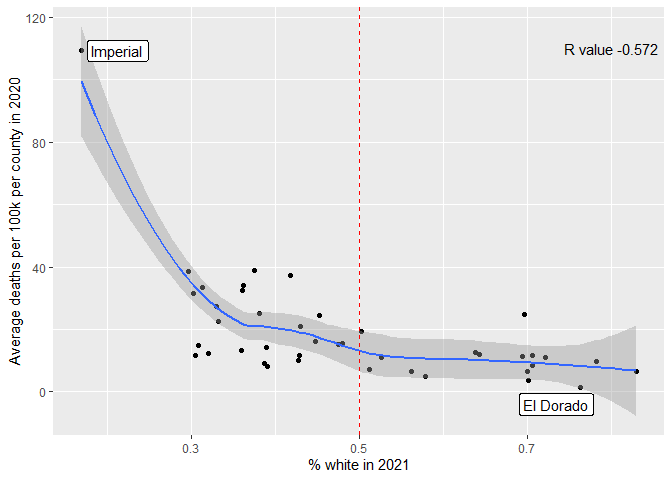
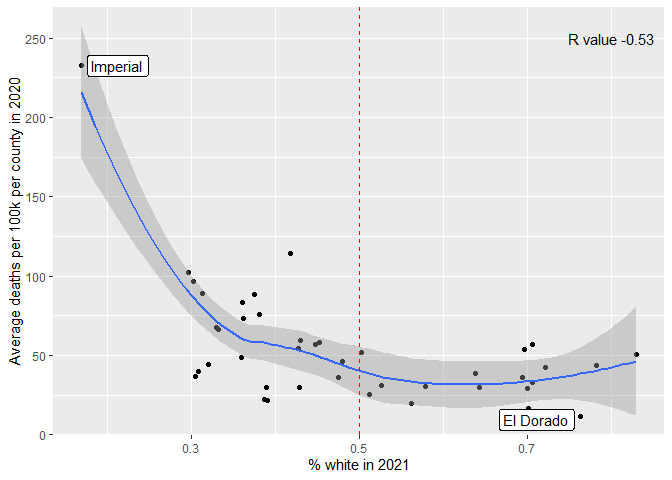
fix c6

diff --git a/challenges/c06-covid19-assignment.md b/challenges/c06-covid19-assignment.md
@@ -333,12 +333,9 @@ the NYT data `df_covid` already contains the `fips`.
 ### **q3** Process the `id` column of `df_pop` to create a `fips` column.
 
 ``` r
-substrRight <- function(x, n){
-  substr(x, nchar(x)-n+1, nchar(x))
-}
 ## TASK: Create a `fips` column by extracting the county code
 df_q3 <- df_pop %>%
-  mutate(fips = substrRight(Geography, 5))
+  mutate(fips = str_sub(Geography, 10))
 
 df_q3
 ```
@@ -575,17 +572,17 @@ df_normalized %>%
 ### **q7** Find the top 10 counties in terms of `cases_per100k`, and the top 10 in terms of `deaths_per100k`. Report the population of each county along with the per-100,000 counts. Compare the counts against the mean values you found in q6. Note any observations.
 
 ``` r
-df_normalized_with_avg <- df_normalized %>%
+df_normalized_with_max <- df_normalized %>%
   group_by(fips) %>%
-  summarize(cases_per100k_avg = mean(cases_per100k), deaths_per100k_avg = mean(deaths_per100k))
+  summarize(cases_per100k_max = max(cases_per100k), deaths_per100k_max = max(deaths_per100k))
 
 ## TASK: Find the top 10 cases_per100k counties; report populations as well
-df_normalized_with_avg %>%
-  arrange(desc(cases_per100k_avg)) %>%
+df_normalized_with_max %>%
+  arrange(desc(cases_per100k_max)) %>%
   head(10) %>%
   inner_join(df_normalized, by = "fips") %>%
   distinct(fips, .keep_all = TRUE) %>%
-  select(c("fips", "county", "state", "cases_per100k_avg", "population"))
+  select(c("fips", "county", "state", "cases_per100k_max","deaths_per100k_max", "population"))
 ```
 
     ## Warning in inner_join(., df_normalized, by = "fips"): Each row in `x` is expected to match at most 1 row in `y`.
@@ -593,28 +590,29 @@ df_normalized_with_avg %>%
     ## ℹ If multiple matches are expected, set `multiple = "all"` to silence this
     ##   warning.
 
-    ## # A tibble: 10 × 5
-    ##    fips  county        state        cases_per100k_avg population
-    ##    <chr> <chr>         <chr>                    <dbl>      <dbl>
-    ##  1 47169 Trousdale     Tennessee               15155.       9573
-    ##  2 05079 Lincoln       Arkansas                10530.      13695
-    ##  3 47095 Lake          Tennessee               10389.       7526
-    ##  4 31043 Dakota        Nebraska                10288.      20317
-    ##  5 13053 Chattahoochee Georgia                  9089.      10767
-    ##  6 27105 Nobles        Minnesota                8822.      21839
-    ##  7 19021 Buena Vista   Iowa                     8670.      20260
-    ##  8 05077 Lee           Arkansas                 8035.       9398
-    ##  9 46017 Buffalo       South Dakota             7821.       2053
-    ## 10 12067 Lafayette     Florida                  7775.       8744
+    ## # A tibble: 10 × 6
+    ##    fips  county        state        cases_per100k_max deaths_per100k_max popul…¹
+    ##    <chr> <chr>         <chr>                    <dbl>              <dbl>   <dbl>
+    ##  1 08025 Crowley       Colorado                29254.              213.     5630
+    ##  2 47169 Trousdale     Tennessee               22553.              125.     9573
+    ##  3 46041 Dewey         South Dakota            21855.              208.     5779
+    ##  4 20137 Norton        Kansas                  21491.              456.     5486
+    ##  5 46009 Bon Homme     South Dakota            21194.              330.     6969
+    ##  6 05079 Lincoln       Arkansas                20591.              175.    13695
+    ##  7 13053 Chattahoochee Georgia                 20535.               37.2   10767
+    ##  8 46017 Buffalo       South Dakota            19971.              487.     2053
+    ##  9 47095 Lake          Tennessee               18708.              173.     7526
+    ## 10 19021 Buena Vista   Iowa                    18337.              128.    20260
+    ## # … with abbreviated variable name ¹population
 
 ``` r
 ## TASK: Find the top 10 deaths_per100k counties; report populations as well
-df_normalized_with_avg %>%
-  arrange(desc(deaths_per100k_avg)) %>%
+df_normalized_with_max %>%
+  arrange(desc(deaths_per100k_max)) %>%
   head(10) %>%
   inner_join(df_normalized, by = "fips") %>%
   distinct(fips, .keep_all = TRUE) %>%
-  select(c("fips", "county", "state", "deaths_per100k_avg", "population"))
+  select(c("fips", "county", "state", "deaths_per100k_max", "cases_per100k_max", "population"))
 ```
 
     ## Warning in inner_join(., df_normalized, by = "fips"): Each row in `x` is expected to match at most 1 row in `y`.
@@ -622,30 +620,41 @@ df_normalized_with_avg %>%
     ## ℹ If multiple matches are expected, set `multiple = "all"` to silence this
     ##   warning.
 
-    ## # A tibble: 10 × 5
-    ##    fips  county         state       deaths_per100k_avg population
-    ##    <chr> <chr>          <chr>                    <dbl>      <dbl>
-    ##  1 13141 Hancock        Georgia                   380.       8535
-    ##  2 13243 Randolph       Georgia                   333.       7087
-    ##  3 51595 Emporia city   Virginia                  305.       5381
-    ##  4 13273 Terrell        Georgia                   302.       8859
-    ##  5 31135 Perkins        Nebraska                  292.       2907
-    ##  6 51640 Galax city     Virginia                  279.       6638
-    ##  7 13099 Early          Georgia                   278.      10348
-    ##  8 28099 Neshoba        Mississippi               262.      29376
-    ##  9 35031 McKinley       New Mexico                255.      72849
-    ## 10 22037 East Feliciana Louisiana                 245.      19499
+    ## # A tibble: 10 × 6
+    ##    fips  county       state        deaths_per100k_max cases_per100k_max popula…¹
+    ##    <chr> <chr>        <chr>                     <dbl>             <dbl>    <dbl>
+    ##  1 20063 Gove         Kansas                     764.            12677.     2619
+    ##  2 46073 Jerauld      South Dakota               739.            12765.     2029
+    ##  3 38021 Dickey       North Dakota               644.            13843.     4970
+    ##  4 46053 Gregory      South Dakota               619.            11473.     4201
+    ##  5 46125 Turner       South Dakota               593.            11738.     8264
+    ##  6 38031 Foster       North Dakota               578.            16535.     3290
+    ##  7 55051 Iron         Wisconsin                  577.             9221.     5715
+    ##  8 46057 Hamlin       South Dakota               567.            10100      6000
+    ##  9 51595 Emporia city Virginia                   558.             7749.     5381
+    ## 10 13141 Hancock      Georgia                    551.             7862.     8535
+    ## # … with abbreviated variable name ¹population
 
 **Observations**:
 
-- The cases_per100k average is about 5 to 10 times greater for the 10
-  counties with the highest cases_per100k average than the average
-  cases_per100k across all counties.
-- The deaths_per100k average is about 6 to 10 times greater for the 10
-  counties with the highest deaths_per100k average compared to the
-  average deaths_per100k across all counties.
-- The top 10 counties in both calculations both have relatively small
+- For the 10 counties with the maximum cases_per100k,the cases_per100k
+  max are more than 10 times greater than mean cases_per100k across all
+  dates. These counties also have a maximum deaths_per100k that is much
+  greater than the mean deaths_per100k across all dates (computed in
+  q6), which suggests that a large number of covid cases per capita
+  could result in with a large number of covid deaths per capita.
+- For the 10 counties with the maximum deaths_per100k,the deaths_per100k
+  max are more than 10 times greater than mean deaths_per100k across all
+  dates (computed in q6). These counties also have a maximum
+  cases_per100k that is much greater than the mean cases_per100k across
+  all dates, which again suggests that a large number of covid cases per
+  capita could result in a large number of covid deaths per capita.
+- The top 10 counties with maximum cases_per100k have greater
+  populations than the top 10 counties with maximum deaths_per100k, but
+  the top 10 counties in both calculations both have relatively small
   populations - all are below 30,000.
+- The top 10 counties with maximum cases_per100k are not the same as the
+  top 10 counties with maximum deaths_per100k.
 
 ## Self-directed EDA
 
@@ -716,7 +725,7 @@ df_race
 ``` r
 # get fips code for race dataset and calculate % white for each county
 df_race_2 <- df_race %>%
-  mutate(fips = substrRight(Geography, 5),
+  mutate(fips = str_sub(Geography, 10),
          pct_white = population_white/population)
 
 df_race_2
@@ -739,37 +748,37 @@ df_race_2
     ## #   ²pct_white
 
 ``` r
-df_normalized_with_avg_and_county_names <- df_normalized %>%
+df_normalized_with_max_and_county_names <- df_normalized %>%
   select("fips", "county", "state") %>%
   distinct(fips, .keep_all = TRUE) %>%
-  right_join(df_normalized_with_avg, by = "fips")
+  right_join(df_normalized_with_max, by = "fips")
 
-df_normalized_with_avg_and_county_names
+df_normalized_with_max_and_county_names
 ```
 
     ## # A tibble: 3,219 × 5
-    ##    fips  county        state         cases_per100k_avg deaths_per100k_avg
+    ##    fips  county        state         cases_per100k_max deaths_per100k_max
     ##    <chr> <chr>         <chr>                     <dbl>              <dbl>
-    ##  1 53061 Snohomish     Washington                 783.              20.5 
-    ##  2 17031 Cook          Illinois                  2199.              70.8 
-    ##  3 06059 Orange        California                1084.              20.9 
-    ##  4 04013 Maricopa      Arizona                   2078.              42.0 
-    ##  5 06037 Los Angeles   California                1742.              38.7 
-    ##  6 06085 Santa Clara   California                 722.              11.5 
-    ##  7 25025 Suffolk       Massachusetts             2470.             102.  
-    ##  8 06075 San Francisco California                 788.               8.09
-    ##  9 55025 Dane          Wisconsin                 1494.               7.61
-    ## 10 06073 San Diego     California                1006.              15.5 
+    ##  1 53061 Snohomish     Washington                2948.               50.0
+    ##  2 17031 Cook          Illinois                  7536.              159. 
+    ##  3 06059 Orange        California                5252.               59.3
+    ##  4 04013 Maricopa      Arizona                   7580.              120. 
+    ##  5 06037 Los Angeles   California                7634.              102. 
+    ##  6 06085 Santa Clara   California                3635.               36.9
+    ##  7 25025 Suffolk       Massachusetts             6890.              174. 
+    ##  8 06075 San Francisco California                2670.               21.4
+    ##  9 55025 Dane          Wisconsin                 6512.               37.6
+    ## 10 06073 San Diego     California                4713.               46.4
     ## # … with 3,209 more rows
 
 ``` r
 # join race dataset with normalized dataset from above and select only california counties
 
-df_data_race_ca <- df_normalized_with_avg_and_county_names %>%
+df_data_race_ca <- df_normalized_with_max_and_county_names %>%
   left_join(df_race_2, by = "fips") %>%
   filter(state == c("California")) %>%
   drop_na("Geography") %>%
-  arrange(desc(deaths_per100k_avg)) %>%
+  arrange(desc(deaths_per100k_max)) %>%
   distinct(fips, .keep_all = TRUE)
 
 df_data_race_ca
@@ -778,18 +787,18 @@ df_data_race_ca
     ## # A tibble: 42 × 10
     ##    fips  county    state cases…¹ death…² Geogr…³ Geogr…⁴ popul…⁵ popul…⁶ pct_w…⁷
     ##    <chr> <chr>     <chr>   <dbl>   <dbl> <chr>   <chr>     <dbl>   <dbl>   <dbl>
-    ##  1 06025 Imperial  Cali…   4807.   109.  050000… Imperi…  179851   30270   0.168
-    ##  2 06107 Tulare    Cali…   2301.    38.8 050000… Tulare…  477054  178557   0.374
-    ##  3 06037 Los Ange… Cali…   1742.    38.7 050000… Los An… 9829544 2909096   0.296
-    ##  4 06099 Stanisla… Cali…   2009.    37.3 050000… Stanis…  552999  230860   0.417
-    ##  5 06031 Kings     Cali…   3621.    34.0 050000… Kings …  153443   55481   0.362
-    ##  6 06077 San Joaq… Cali…   1758.    33.5 050000… San Jo…  789410  246993   0.313
-    ##  7 06065 Riverside Cali…   1811.    32.6 050000… Rivers… 2458395  887331   0.361
-    ##  8 06047 Merced    Cali…   2167.    31.7 050000… Merced…  286461   86433   0.302
-    ##  9 06071 San Bern… Cali…   1997.    27.5 050000… San Be… 2194710  723292   0.330
-    ## 10 06039 Madera    Cali…   1806.    25.2 050000… Madera…  159410   60686   0.381
-    ## # … with 32 more rows, and abbreviated variable names ¹cases_per100k_avg,
-    ## #   ²deaths_per100k_avg, ³Geography, ⁴`Geographic Area Name`, ⁵population,
+    ##  1 06025 Imperial  Cali…  12356.   232.  050000… Imperi…  179851   30270   0.168
+    ##  2 06099 Stanisla… Cali…   6958.   114.  050000… Stanis…  552999  230860   0.417
+    ##  3 06037 Los Ange… Cali…   7634.   102.  050000… Los An… 9829544 2909096   0.296
+    ##  4 06047 Merced    Cali…   7226.    96.6 050000… Merced…  286461   86433   0.302
+    ##  5 06077 San Joaq… Cali…   6225.    88.9 050000… San Jo…  789410  246993   0.313
+    ##  6 06107 Tulare    Cali…   7263.    88.2 050000… Tulare…  477054  178557   0.374
+    ##  7 06065 Riverside Cali…   7576.    83.3 050000… Rivers… 2458395  887331   0.361
+    ##  8 06039 Madera    Cali…   6768.    75.5 050000… Madera…  159410   60686   0.381
+    ##  9 06031 Kings     Cali…  10737.    73.3 050000… Kings …  153443   55481   0.362
+    ## 10 06071 San Bern… Cali…   9103.    67.7 050000… San Be… 2194710  723292   0.330
+    ## # … with 32 more rows, and abbreviated variable names ¹cases_per100k_max,
+    ## #   ²deaths_per100k_max, ³Geography, ⁴`Geographic Area Name`, ⁵population,
     ## #   ⁶population_white, ⁷pct_white
 
 ``` r
@@ -801,20 +810,20 @@ df_data_race_ca_leftmost <- df_data_race_ca %>%
   head(1)
 
 df_data_race_ca_rightmost <- df_data_race_ca %>%
-  arrange(deaths_per100k_avg) %>%
+  arrange(deaths_per100k_max) %>%
   head(1)
 
 # compare death counts for majority white vs. majority minority counties in California
 
 # get correlation value
-pct_white_deaths_per_100k_avg <- 
-  cor(x = df_data_race_ca %>% pull(pct_white), y = df_data_race_ca %>% pull(deaths_per100k_avg)) %>%
+pct_white_deaths_per_100k_max <- 
+  cor(x = df_data_race_ca %>% pull(pct_white), y = df_data_race_ca %>% pull(deaths_per100k_max)) %>%
   round(3)
 
 
 # plot
 df_data_race_ca %>%
-  ggplot(mapping = aes(x = pct_white, y = deaths_per100k_avg, label = county)) +
+  ggplot(mapping = aes(x = pct_white, y = deaths_per100k_max, label = county)) +
   geom_point() +
   geom_smooth(method = "loess") +
   geom_label_repel(data = df_data_race_ca_leftmost) + 
@@ -822,7 +831,7 @@ df_data_race_ca %>%
   geom_vline(xintercept = 0.5, color = "red", linetype = "dashed") +
   xlab("% white in 2021") +
   ylab("Average deaths per 100k per county in 2020") +
-  annotate("text", x = 0.8, y = 110, label=paste("R value", pct_white_deaths_per_100k_avg))
+  annotate("text", x = 0.8, y = 250, label=paste("R value", pct_white_deaths_per_100k_max))
 ```
 
     ## `geom_smooth()` using formula = 'y ~ x'
